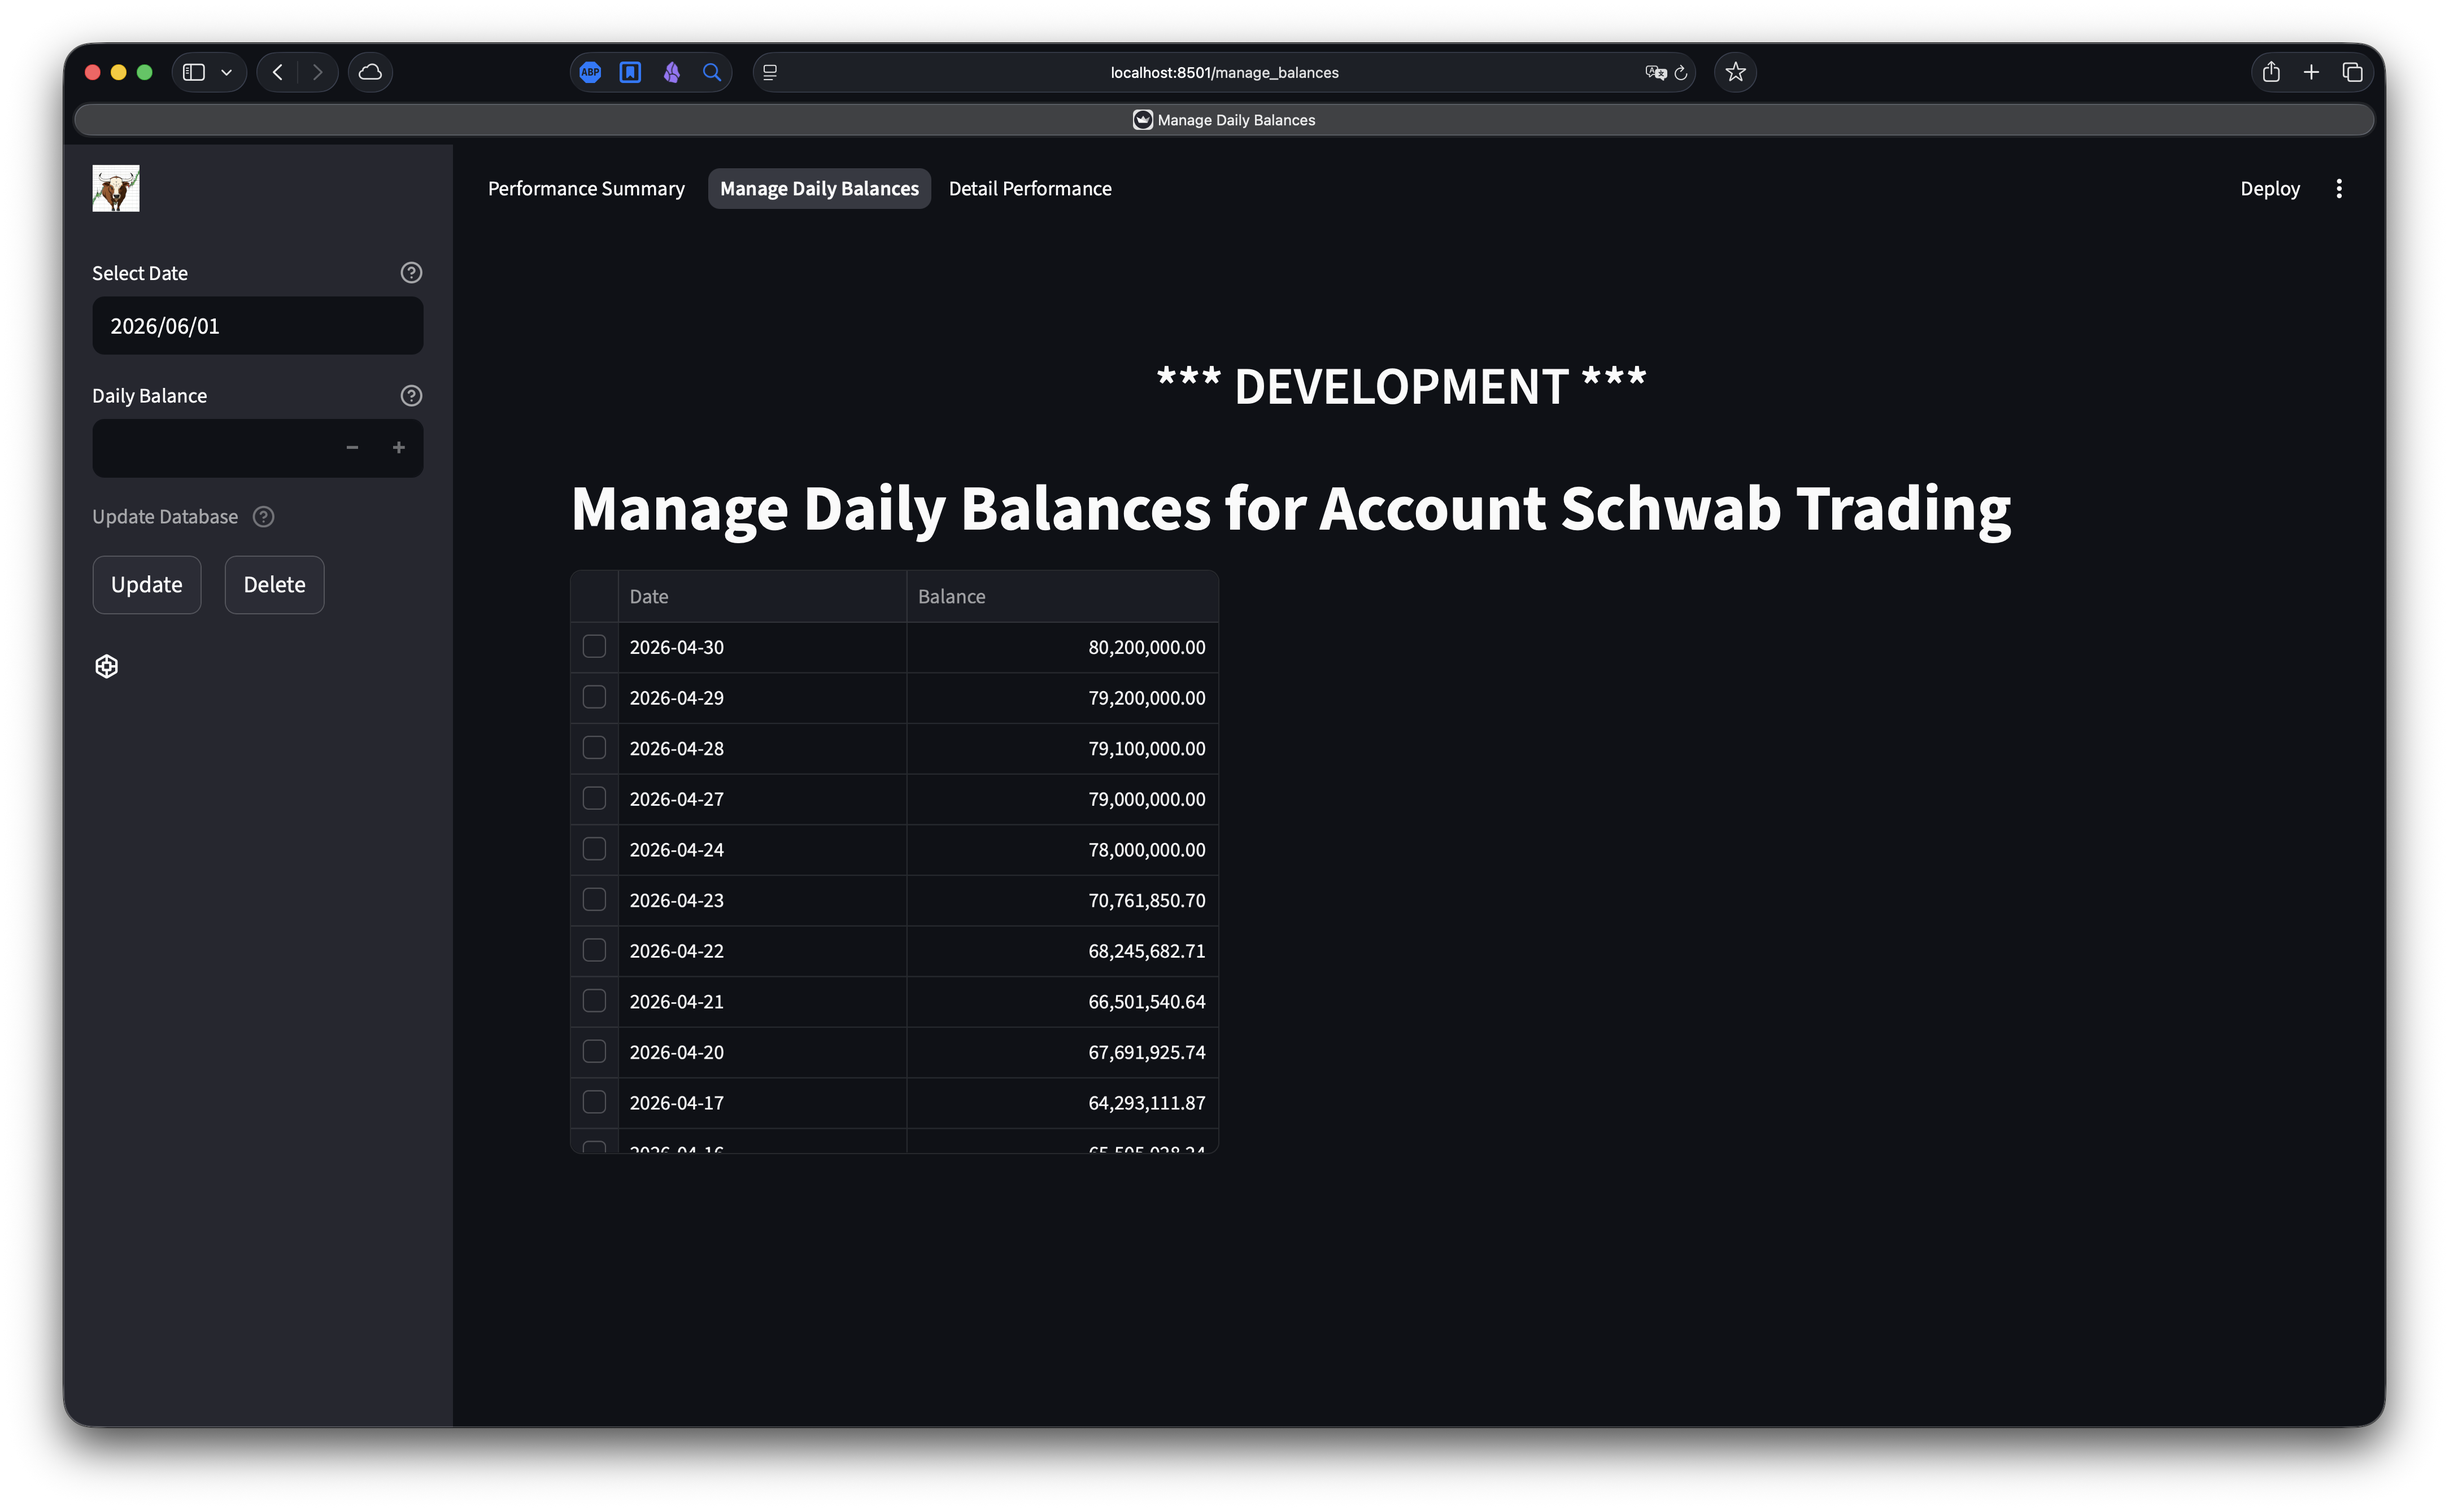
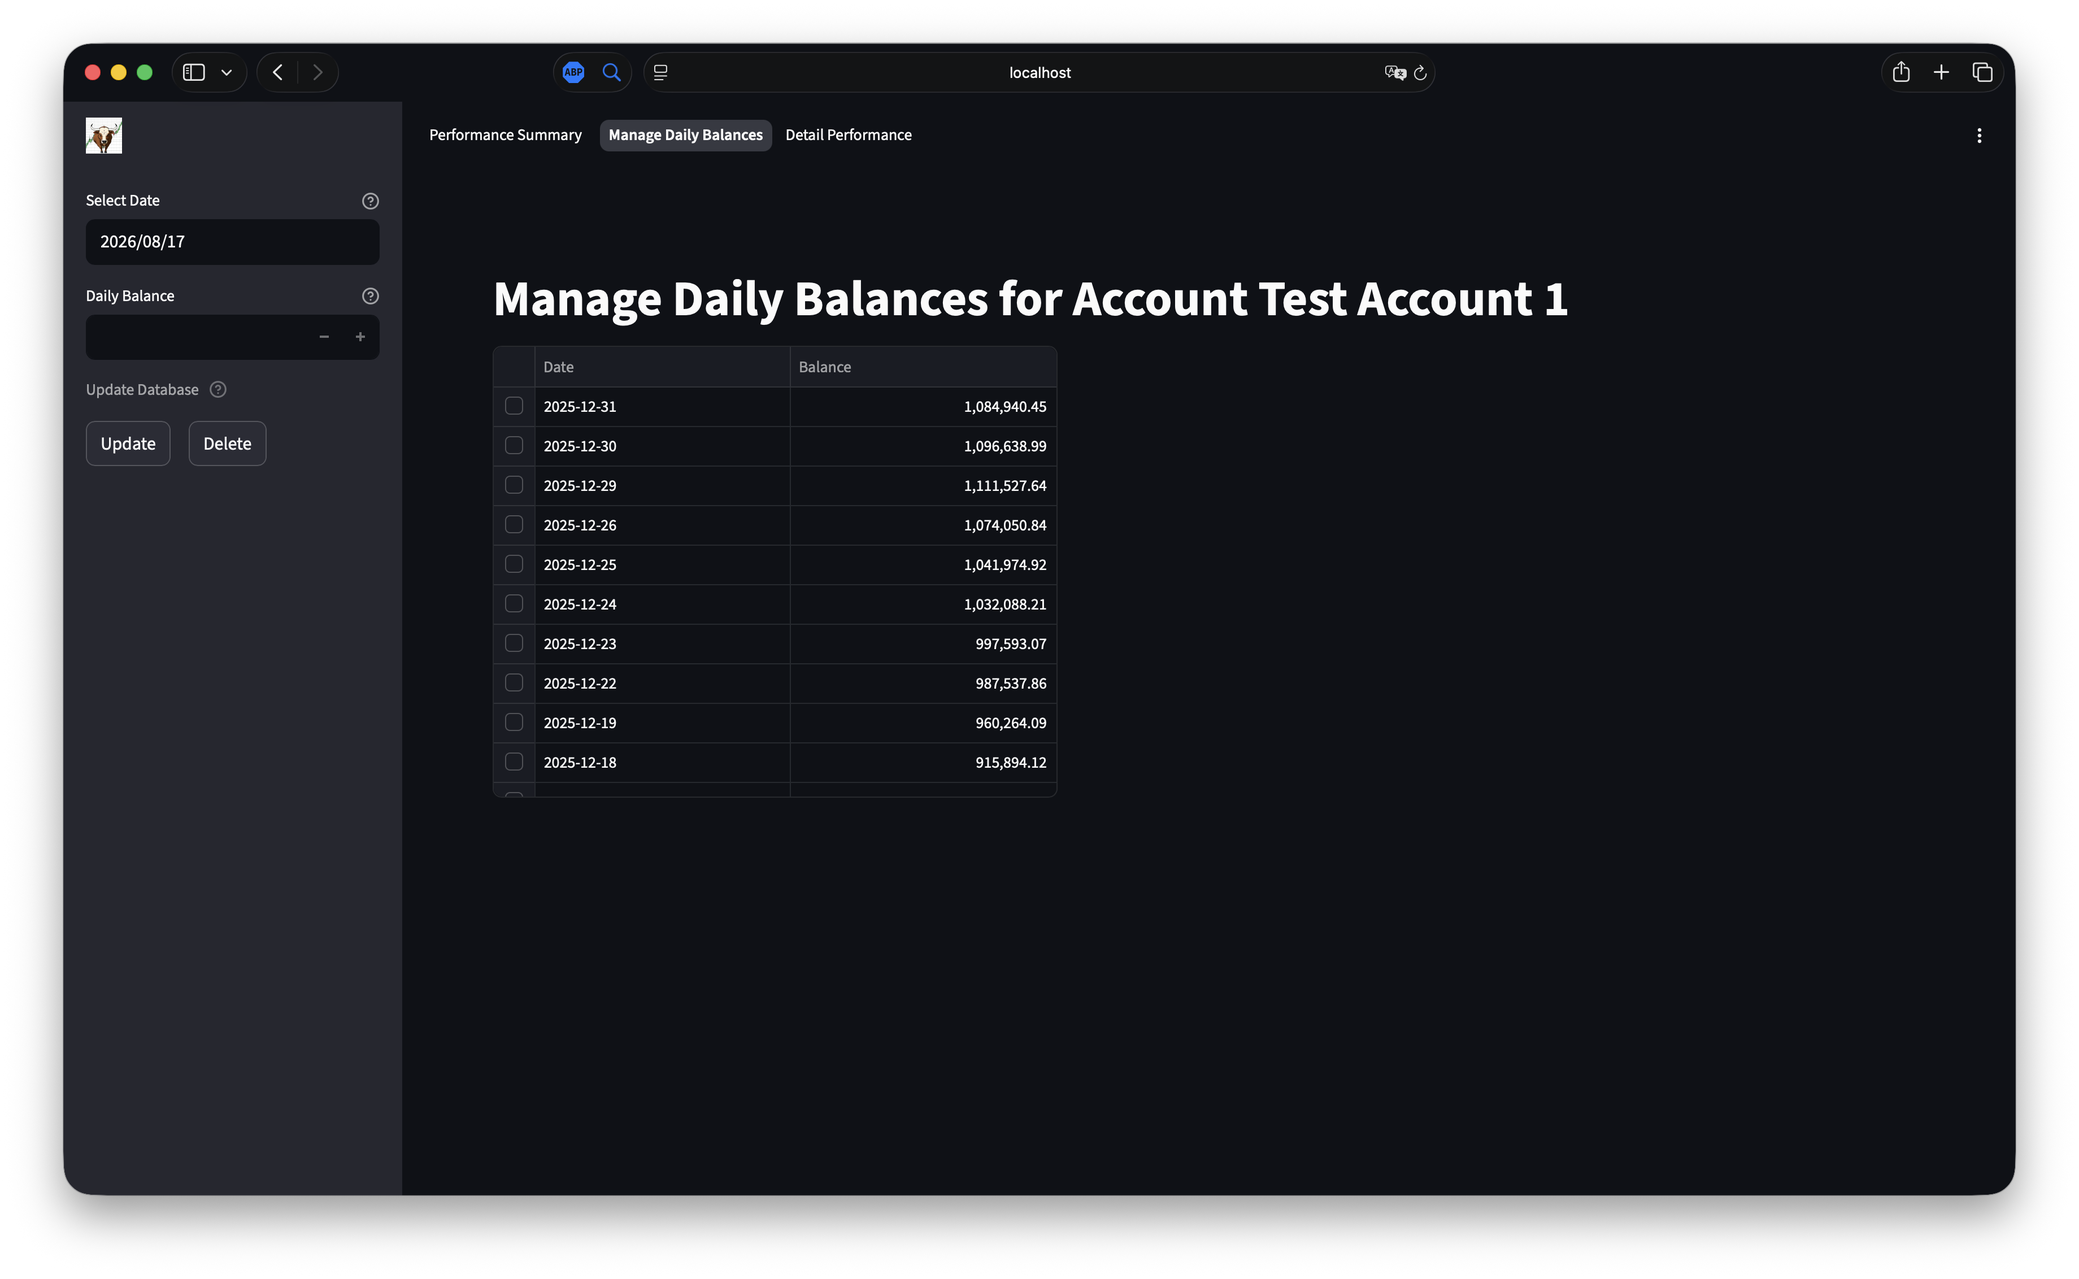
update README and screenshots

Changed region(s): [[0.0, 0.0309, 1.0, 0.9894]]

diff --git a/README.md b/README.md
@@ -75,35 +75,15 @@ This is the easiest installation if you just want to give it a try, or use it as
    docker pull nomadmot/portfolio-dashboard:latest
    ```
 
-2. Either download the compose.yaml file from the docker directory of the GitHub repository, or copy the following:
-
-   ```yaml
-   services:
-   PortfolioDashboard:
-      image: docker.io/nomadmot/portfolio-dashboard:latest
-      environment:
-         - DATABASE_URI=sqlite://///home/appuser/investorlab/DATA/portfolio.db
-         - DUCK_PUDDLE=/home/appuser/investorlab/DUCK_PUDDLE
-         - LOGLEVEL_APPLICATION=INFO
-         - LOGLEVEL_STREAMLIT=WARN
-         - LOGLEVEL_SQLALCHEMY=WARN
-         - YFINANCE_DEBUG=FALSE
-         - SQLALCHEMY_ECHO=FALSE
-         - SQLALCHEMY_ECHO_POOL=FALSE
-      ports:
-         - target: 8080
-         published: "8080"
-         protocol: tcp
-      volumes:
-         - type: bind
-         source: /path/to/your/data
-         target: /home/appuser/investorlab
-      ```
-
-3. Run Docker Compose:
+2. Run docker (replace the data file placeholder with the path to your data directory)
 
    ```bash
-   docker compose up
+   docker run -d \
+    --volume /Path/to/your/data/directory:/var/investorlab \
+    --name portfolio-dashboard \
+    --publish 8501 \
+    --restart always \
+    localhost/portfolio-dashboard
    ```
 
 ### Installation (Github)
@@ -117,17 +97,12 @@ This is the easiest installation if you just want to give it a try, or use it as
 
 2. **Set Up the Environment**
 
-   - Create a virtual environment
+   - Create a virtual environment and install dependencies using:
 
    ```bash
-   uv venv
+   uv sync
    ```
 
-   - Install dependencies using:
-
-   ```bash
-   uv pip install .
-   ```
 
 ### Next Steps
 
@@ -152,7 +127,6 @@ I'm continuously improving the Portfolio Dashboard based on community feedback a
 
 ### User Experience & Interface
 
-- [#161](https://github.com/nomadmot/Portfolio_Dashboard/issues/161) add buttons to slide dates forward and backward in Time Machine Component
 - [#145](https://github.com/nomadmot/Portfolio_Dashboard/issues/145) Create an alerts page to view and filter application notifications
 
 ### New Features
@@ -174,9 +148,6 @@ I'm continuously improving the Portfolio Dashboard based on community feedback a
 - Automated upload of user transactions and other data
 - UI for reviewing custom time series on plots (Time Machine)
 - Backtesting
-- Constant refactoring (I love refactoring)
-- Testing suite for regression testing
-
 ---
 
 ## 📝 How You Can Help
